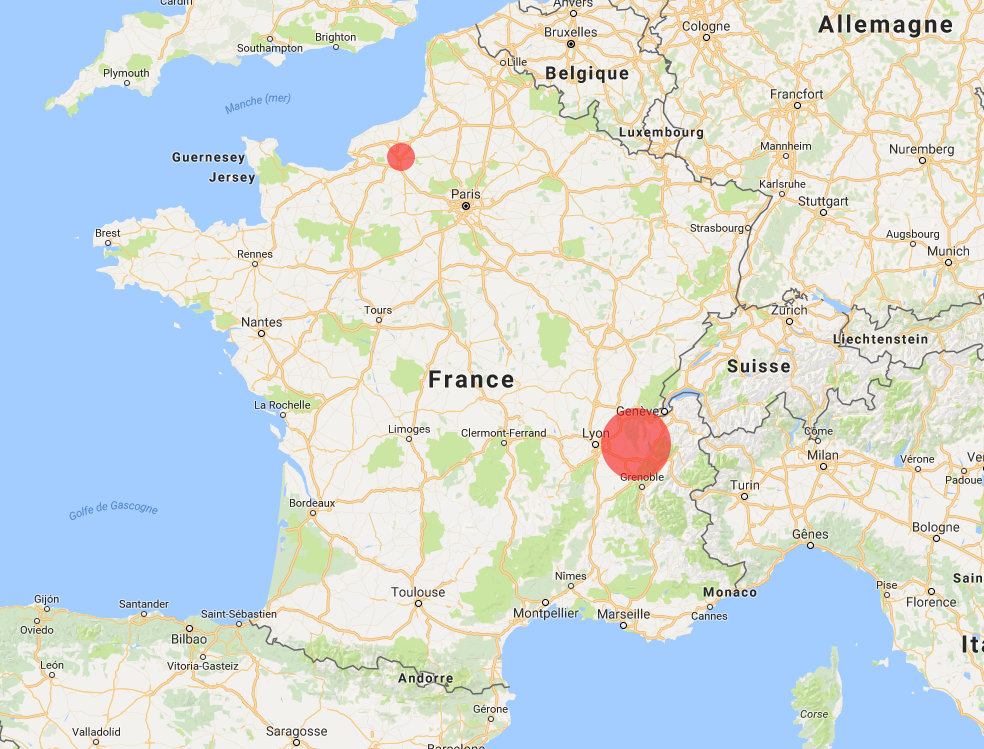
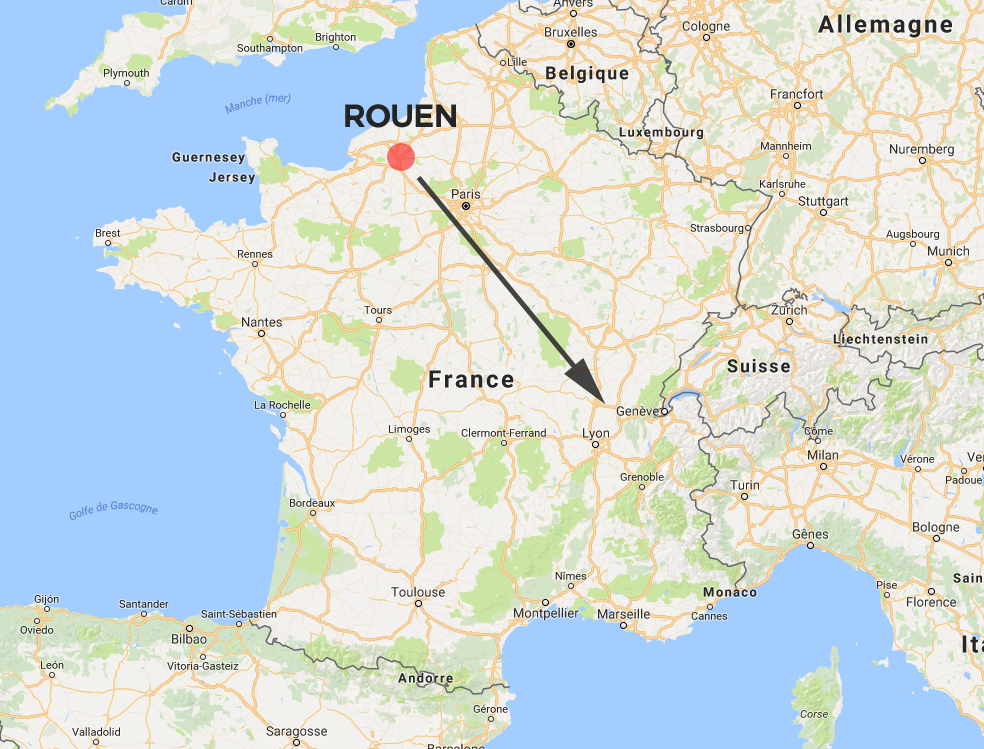
add map assets + update slides

diff --git a/index.html b/index.html
@@ -45,27 +45,27 @@
 						</div>
 						<div class="sl-block" data-block-type="text" style="height: auto; min-width: 30px; min-height: 30px; width: 600px; left: 180px; top: 600px;">
 							<div class="sl-block-content" style="z-index: 12; font-size: 80%;">
-								<p>@airtasker</p>
+								<p>@airtasker - June 2017</p>
 							</div>
 						</div>
 					</section>
 					<section data-background-color="#cccccc">
-						<div class="sl-block" data-block-type="text" style="width: 800px; left: 81px; top: 420px; height: auto;">
+						<div class="sl-block" data-block-type="text" style="width: 800px; left: 81px; top: 380px; height: auto;">
 							<div class="sl-block-content" style="z-index: 11;">
 								<p>
-									<span style="font-size:1.4em">Médric</span>
+									<span style="font-size:1.4em; color: #333333">Médric</span>
 								</p>
 								<p>
 									<span style="font-size:1.4em">
-										<span style="color:#40E0D0">@_medric</span>
+										<span style="color:#1b91ff">@_medric</span>
 									</span>
 								</p>
 								<p>
-									<span style="font-size:1.4em">JavaScript developer</span>
+									<span style="font-size:1.4em; color: #333333">Web engineer</span>
 								</p>
 							</div>
 						</div>
-						<div class="sl-block" data-block-type="image" style="min-width: 30px; min-height: 30px; width: 227px; height: 230px; left: 367px; top: 140px;">
+						<div class="sl-block" data-block-type="image" style="min-width: 30px; min-height: 30px; width: 227px; height: 230px; left: 367px; top: 100px;">
 							<div class="sl-block-content" style="z-index: 13;">
 								<img data-natural-width="269" data-natural-height="272" data-src="https://s3.amazonaws.com/media-p.slid.es/uploads/719912/images/3849018/t_l_chargement.png"/>
 							</div>
@@ -73,39 +73,112 @@
 					</section>
 					<section data-background-color="#cccccc">
 						<div class="sl-block" data-block-type="text" style="height: auto; min-width: 30px; min-height: 30px; width: 423px; left: 80px; top: 33px;">
-							<div class="sl-block-content" style="z-index: 12; background-color: #333333;">
+							<div class="sl-block-content head-title" style="z-index: 12; background-color: #333333;">
 								<p style="text-align:left">
-									<span style="font-size:1.2em">&nbsp;About me</span>
-								</p>
-							</div>
-							<div class="sl-block-content" style="z-index: 12">
-								<p style="text-align:left">
-									<span style="color: #333333;">&nbsp;Journey</span>
+									<span style="font-size:1.2em;">&nbsp;Journey</span>
 								</p>
 							</div>
 						</div>
-						<div class="sl-block" data-block-type="image" style="min-width: 30px; min-height: 30px; width: 800px; height: 600px; left: 100px; top: 140px;">
+						<div class="sl-block" data-block-type="image" style="min-width: 30px; min-height: 30px; width: 800px; height: 600px; left: 100px; top: 100px;">
 							<div class="sl-block-content" style="z-index: 13;">
-								<img data-natural-width="800" data-natural-height="800" data-src="assets/map_0.png"/>
+								<img data-natural-width="800" data-natural-height="600" data-src="assets/map_0.png"/>
 							</div>
 						</div>
 					</section>
 					<section data-background-color="#cccccc">
 						<div class="sl-block" data-block-type="text" style="height: auto; min-width: 30px; min-height: 30px; width: 423px; left: 80px; top: 33px;">
-							<div class="sl-block-content" style="z-index: 12; background-color: #333333;">
+							<div class="sl-block-content head-title" style="z-index: 12; background-color: #333333;">
 								<p style="text-align:left">
-									<span style="font-size:1.2em">&nbsp;About me</span>
-								</p>
-							</div>
-							<div class="sl-block-content" style="z-index: 12">
-								<p style="text-align:left">
-									<span style="color: #333333;">&nbsp;Journey</span>
+									<span style="font-size:1.2em">&nbsp;Journey</span>
 								</p>
 							</div>
 						</div>
-						<div class="sl-block" data-block-type="image" style="min-width: 30px; min-height: 30px; width: 800px; height: 600px; left: 100px; top: 140px;">
+						<div class="sl-block" data-block-type="image" style="min-width: 30px; min-height: 30px; width: 800px; height: 600px; left: 100px; top: 100px;">
 							<div class="sl-block-content" style="z-index: 13;">
-								<img data-natural-width="800" data-natural-height="800" data-src="assets/map_1.png"/>
+								<img data-natural-width="800" data-natural-height="600" data-src="assets/map_1.png"/>
+							</div>
+						</div>
+					</section>
+					<section data-background-color="#cccccc">
+						<div class="sl-block" data-block-type="text" style="height: auto; min-width: 30px; min-height: 30px; width: 423px; left: 80px; top: 33px;">
+							<div class="sl-block-content head-title" style="z-index: 12; background-color: #333333;">
+								<p style="text-align:left">
+									<span class="head-title" style="font-size:1.2em">&nbsp;Journey</span>
+								</p>
+							</div>
+							<!--<div class="sl-block-content" style="z-index: 12">
+								<p style="text-align:left">
+									<span style="color: #333333;">&nbsp;Journey</span>
+								</p>
+							</div>-->
+						</div>
+						<div class="sl-block" data-block-type="image" style="min-width: 30px; min-height: 30px; width: 800px; height: 600px; left: 100px; top: 100px;">
+							<div class="sl-block-content" style="z-index: 13;">
+								<img data-natural-width="800" data-natural-height="600" data-src="assets/map_2.png"/>
+							</div>
+						</div>	
+					</section>
+					<section data-background-color="#cccccc">
+						<div class="sl-block" data-block-type="text" style="height: auto; min-width: 30px; min-height: 30px; width: 423px; left: 80px; top: 33px;">
+							<div class="sl-block-content head-title" style="z-index: 12; background-color: #333333;">
+								<p style="text-align:left">
+									<span class="head-title" style="font-size:1.2em">&nbsp;Journey</span>
+								</p>
+							</div>
+							<!--<div class="sl-block-content" style="z-index: 12">
+								<p style="text-align:left">
+									<span style="color: #333333;">&nbsp;Journey</span>
+								</p>
+							</div>-->
+						</div>
+						<div class="sl-block" data-block-type="image" style="min-width: 30px; min-height: 30px; width: 800px; height: 600px; left: 100px; top: 100px;">
+							<div class="sl-block-content" style="z-index: 13;">
+								<img data-natural-width="800" data-natural-height="600" data-src="assets/map_3.png"/>
+							</div>
+						</div>	
+					</section>
+					<section data-background-color="#53BD8C">
+						<div class="sl-block" data-block-type="text" style="height: auto; min-width: 30px; min-height: 30px; width: 423px; left: 80px; top: 33px;">
+							<p>Places I lived in</p>
+						</div>
+						<div class="sl-block" data-block-type="text" style="height: auto; min-width: 30px; min-height: 30px; width: 423px; left: 80px; top: 33px;">
+							<div class="sl-block" data-block-type="image" style="min-width: 30px; min-height: 30px; width: 700px; height: 600px; left: 100px; top: 100px;">
+								<p class="fragment" data-autoslide="10000">
+									<img data-natural-width="400" data-natural-height="400" data-src="assets/rouen.jpg"/>
+								</p>
+								<p class="fragment" data-autoslide="10000">
+									Where I grew up!
+								</p>
+							</div>
+						</div>
+					</section>
+					<section data-background-color="#53BD8C">
+						<div class="sl-block" data-block-type="text" style="height: auto; min-width: 30px; min-height: 30px; width: 423px; left: 80px; top: 33px;">
+							<p>Places I lived in</p>
+						</div>
+						<div class="sl-block" data-block-type="text" style="height: auto; min-width: 30px; min-height: 30px; width: 423px; left: 80px; top: 33px;">
+							<div class="sl-block" data-block-type="image" style="min-width: 30px; min-height: 30px; width: 700px; height: 600px; left: 100px; top: 100px;">
+								<p class="fragment" data-autoslide="10000">
+									<img data-natural-width="400" data-natural-height="400" data-src="assets/annecy.jpg"/>
+								</p>
+								<p class="fragment" data-autoslide="10000">
+									Where I studied!
+								</p>
+							</div>
+						</div>
+					</section>
+					<section data-background-color="#53BD8C">
+						<div class="sl-block" data-block-type="text" style="height: auto; min-width: 30px; min-height: 30px; width: 423px; left: 80px; top: 33px;">
+							<p>Places I lived in</p>
+						</div>
+						<div class="sl-block" data-block-type="text" style="height: auto; min-width: 30px; min-height: 30px; width: 423px; left: 80px; top: 33px;">
+							<div class="sl-block" data-block-type="image" style="min-width: 30px; min-height: 30px; width: 700px; height: 600px; left: 100px; top: 100px;">
+								<p class="fragment" data-autoslide="10000">
+									<img data-natural-width="400" data-natural-height="400" data-src="assets/lyon.jpg"/>
+								</p>
+								<p class="fragment" data-autoslide="10000">
+									Where I got older and studied again!
+								</p>
 							</div>
 						</div>
 					</section>

diff --git a/css/custom.css b/css/custom.css
@@ -1,0 +1,7 @@
+div.head-title {
+    border-bottom: solid 2px #FFF;
+}
+
+.sl-block img {
+    width: 100%;
+}
